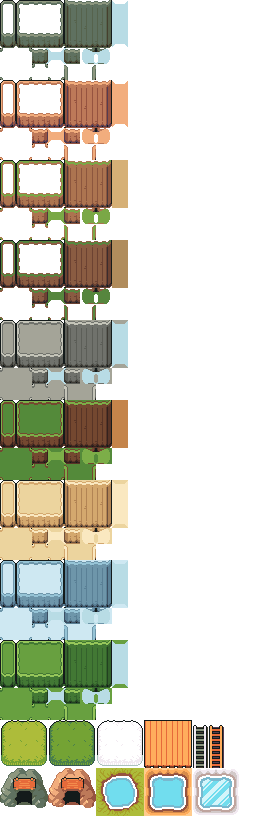
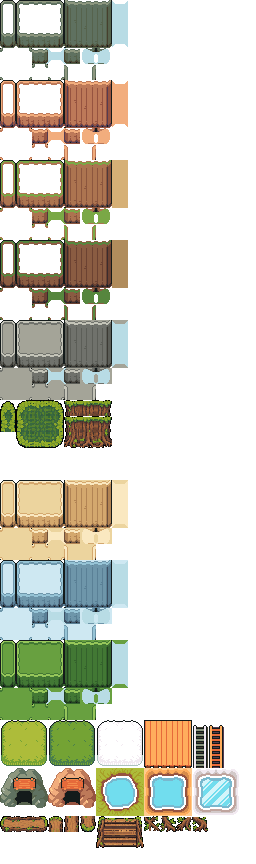
v21.5 : Arbre-Monde redessiné (feuillage, écorce, escaliers taillés, trous et branches à traverser, îlot, racines, lianes, lanternes)
Claude-Session: https://claude.ai/code/session_01HmK4HGKwe1XnWGQ1fbvQpK

diff --git a/index.html b/index.html
@@ -277,7 +277,7 @@ function cnv(w,h){const o=document.createElement('canvas');o.width=w;o.height=h;
 let seed=1;const srnd=()=>(seed=(seed*16807)%2147483647)/2147483647;
 
 /* ===== Images : Ninja Adventure (CC0) + kit d'interface ===== */
-const AT={"ch_NinjaGreen":[0,0,64,112],"ch_Knight":[65,0,64,112],"ch_KnightGold":[130,0,64,112],"ch_NinjaBlue":[195,0,64,112],"ch_NinjaRed":[260,0,64,112],"ch_NinjaMageBlack":[325,0,64,112],"ch_Princess":[390,0,64,112],"ch_Hunter":[455,0,64,112],"ch_Monk":[520,0,64,112],"ch_MaskRacoon":[585,0,64,112],"ch_Samurai":[650,0,64,112],"ch_Noble":[715,0,64,112],"ch_OldMan":[780,0,64,112],"ch_Boy":[845,0,64,112],"ch_ManGreen":[910,0,64,112],"ch_Monk2":[975,0,64,112],"ch_Inspector":[1040,0,64,112],"ch_Eskimo":[1105,0,64,112],"c_stairs":[390,885,66,98],"c_stairs_m":[457,885,66,98],"bo_TenguRed_Hit":[67,113,656,82],"bo_TenguRed_Idle":[724,113,492,82],"bo_TenguRed_Walk":[0,212,820,82],"bo_TenguRed_Attack":[0,295,1230,82],"h_temple":[0,378,64,80],"int_wall":[65,378,80,80],"c_pillar":[0,1247,36,81],"bo_Squid_Idle":[181,378,304,79],"bo_Squid_Walk":[486,378,304,79],"h_big":[791,378,64,78],"c_statue":[647,1247,45,77],"c_fountain":[693,1247,98,76],"c_arch":[792,1247,84,68],"mo_SpiderRed":[1080,378,64,64],"mo_Spirit":[1145,378,64,64],"mo_BlueBat":[0,459,64,64],"mo_Eye":[65,459,64,64],"mo_Slime":[130,459,64,64],"mo_Skull":[195,459,64,64],"mo_Cyclope":[260,459,64,64],"h_dome":[325,459,48,64],"c_wall":[1072,1247,128,64],"c_wallwin":[1201,1247,32,64],"fx_circ":[536,459,378,55],"c_well":[0,1329,59,53],"bo_DemonCyclop_Hit":[973,459,150,50],"bo_DemonCyclop_Idle":[0,524,250,50],"bo_DemonCyclop_Walk":[251,524,300,50],"bo_GiantSpirit_Hit":[552,524,150,50],"bo_GiantSpirit_Idle":[703,524,250,50],"bigtree_pink":[954,524,48,48],"bigtree_green":[1003,524,48,48],"bigtree_white":[1052,524,48,48],"bigtree_orange":[1101,524,48,48],"rocks_grey":[1150,524,64,48],"rocks_brown":[0,575,64,48],"h_orange":[65,575,64,48],"h_beige":[130,575,64,48],"h_orange2":[195,575,64,48],"h_red":[260,575,64,48],"h_teal":[325,575,48,48],"h_green":[374,575,64,48],"h_kiln":[439,575,48,48],"h_wood":[488,575,48,48],"h_wood2":[537,575,64,48],"arch":[602,575,64,48],"f_orange9":[667,575,48,48],"f_lgreen9":[716,575,48,48],"f_dgreen9":[765,575,48,48],"f_pink9":[814,575,48,48],"f_white9":[863,575,48,48],"road9":[912,575,48,48],"sand9":[961,575,48,48],"cave9":[1010,575,48,48],"snow9":[1059,575,48,48],"cliff_g":[1108,575,48,48],"cliff_o":[1157,575,48,48],"fx_spike":[0,624,540,48],"c_crate":[863,1329,36,50],"palm":[576,624,32,48],"bo_Samurai_Idle":[609,624,576,48],"bo_Samurai_Walk":[0,673,576,48],"stairs_g":[577,673,64,46],"stairs_w":[642,673,64,46],"f_rug":[707,673,47,46],"f_bed_y":[755,673,32,46],"f_bed_r":[788,673,32,46],"f_bed_b":[821,673,32,46],"f_bed_g":[854,673,32,46],"c_bench":[900,1329,60,45],"cave":[946,673,48,40],"fx_expl":[0,722,360,40],"bo_Frog_Idle":[361,722,200,40],"bo_Frog_Jump":[562,722,240,40],"fc_NinjaGreen":[803,722,38,38],"fc_Knight":[842,722,38,38],"fc_KnightGold":[881,722,38,38],"fc_NinjaBlue":[920,722,38,38],"fc_NinjaRed":[959,722,38,38],"fc_NinjaMageBlack":[998,722,38,38],"fc_Princess":[1037,722,38,38],"fc_Hunter":[1076,722,38,38],"fc_Monk":[1115,722,38,38],"fc_MaskRacoon":[1154,722,38,38],"fc_Samurai":[1193,722,38,38],"fc_Noble":[0,763,38,38],"fc_OldMan":[39,763,38,38],"fc_OldWoman":[78,763,38,38],"fc_Boy":[117,763,38,38],"fc_Child":[156,763,38,38],"fc_Monk2":[195,763,38,38],"fc_Inspector":[234,763,38,38],"fc_Eskimo":[273,763,38,38],"bo_DemonCyclop_Faceset":[312,763,38,38],"bo_GiantSpirit_Faceset":[351,763,38,38],"bo_TenguRed_Faceset":[390,763,38,38],"c_pot":[961,1329,32,40],"fc_horse":[460,763,38,38],"fc_horseb":[499,763,38,38],"fc_lion":[538,763,38,38],"fc_boar":[577,763,38,38],"bo_Frog_Faceset":[616,763,38,38],"bo_Samurai_Faceset":[655,763,38,38],"bo_Squid_Faceset":[694,763,38,38],"fx_spark":[733,763,270,35],"fx_arc":[1004,763,228,34],"ch_OldWoman":[0,802,64,32],"ch_Child":[65,802,64,32],"tree_round":[130,802,32,32],"tree_pine":[163,802,32,32],"tree_dead":[196,802,32,32],"tree_trunk":[229,802,32,32],"tree_green2":[262,802,32,32],"tree_green3":[295,802,32,32],"rock_grey":[328,802,32,32],"rock_brown":[361,802,32,32],"stump":[394,802,32,32],"torii":[427,802,48,32],"hut":[476,802,48,32],"banner0":[525,802,16,32],"banner1":[542,802,16,32],"banner2":[559,802,16,32],"banner3":[576,802,16,32],"banner4":[593,802,16,32],"banner5":[610,802,16,32],"banner6":[627,802,16,32],"pots":[644,802,64,32],"f_orange":[709,802,32,32],"f_lgreen":[742,802,32,32],"f_dgreen":[775,802,32,32],"f_pink":[808,802,32,32],"f_white":[841,802,32,32],"fx_ice":[874,802,320,32],"fx_circle":[0,835,192,32],"fx_smoke":[193,835,192,32],"tower_w":[386,835,16,32],"tower_g":[403,835,16,32],"tower_b":[420,835,16,32],"f_books":[437,835,32,32],"f_shelf":[470,835,64,32],"tree_snow":[535,835,32,32],"pine_snow":[568,835,32,32],"int_floor":[601,835,32,32],"int_floor2":[634,835,32,32],"f_bench":[667,835,48,31],"f_lamp":[716,835,14,30],"f_clock":[731,835,14,30],"fx_thunder":[746,835,160,28],"f_wardrobe":[907,835,14,27],"f_drawer":[922,835,32,26],"f_cabinet":[955,835,32,26],"barrels":[988,835,48,24],"pr_big":[1037,835,96,24],"f_plant":[1134,835,15,24],"m_lion":[1150,835,32,23],"ic_Lance":[1183,835,6,23],"f_sofa":[1190,835,27,20],"ic_MagicWand":[1218,835,5,18],"ic_Sword":[1224,835,6,17],"bush1":[0,868,16,16],"bush2":[17,868,16,16],"bush3":[34,868,16,16],"flower_y":[51,868,16,16],"flower_o":[68,868,16,16],"flower_r":[85,868,16,16],"grass_tuft":[102,868,16,16],"rock_grey_s":[119,868,16,16],"grass":[136,868,16,16],"grass2":[153,868,16,16],"grassd":[170,868,16,16],"block":[187,868,16,16],"lockdoor":[204,868,16,16],"pr_energy":[221,868,64,16],"pr_fire":[286,868,64,16],"pr_shuri":[351,868,32,16],"i_chest":[384,868,32,16],"f_chest":[417,868,16,16],"f_jar":[434,868,16,16],"m_horse":[451,868,32,16],"m_horse_s":[484,868,46,16],"m_horseb":[531,868,32,16],"m_horseb_s":[564,868,46,16],"m_lion_s":[611,868,60,16],"m_boar":[672,868,34,16],"ic_Hammer":[707,868,9,16],"ic_BigSword":[717,868,7,16],"ic_GemGreen":[725,868,16,16],"ic_GemPurple":[742,868,16,16],"ic_Bag":[759,868,16,16],"ic_Rapier":[776,868,10,15],"ic_GemRed":[787,868,15,15],"ic_BarIron":[803,868,16,15],"ic_BarGold":[820,868,16,15],"ic_BarMithril":[837,868,16,15],"i_bigchest":[854,868,32,14],"ic_Katana":[887,868,6,14],"ic_Club":[894,868,8,14],"ic_GemYellow":[903,868,14,14],"f_table":[918,868,45,13],"ic_Axe":[964,868,11,13],"ic_Sai":[976,868,7,13],"w_sword":[984,868,6,11],"i_life":[991,868,9,11],"ic_Cup":[1001,868,9,11],"w_wand":[1011,868,5,10],"w_katana":[1017,868,6,10],"w_hammer":[1024,868,9,9],"p_leaf":[1034,868,72,7],"i_coin":[1107,868,7,7],"ic_Bow":[1115,868,15,7],"pr_arrow":[1131,868,13,5],"pr_kunai":[1145,868,14,5],"ch_KnightRuby":[0,885,64,112],"ch_KnightAzur":[65,885,64,112],"ch_NinjaGreenPourpre":[130,885,64,112],"ch_NinjaGreenCendre":[195,885,64,112],"ch_NinjaMageBlackIvoire":[260,885,64,112],"ch_PrincessJade":[325,885,64,112],"bo_TenguRed_Walk_v":[0,998,820,82],"bo_TenguRed_Idle_v":[0,1081,492,82],"bo_TenguRed_Attack_v":[0,1164,1230,82],"bo_Squid_Idle_ice":[37,1247,304,79],"bo_Squid_Walk_ice":[342,1247,304,79],"mo_Slime_e":[877,1247,64,64],"mo_Skull_e":[942,1247,64,64],"mo_Cyclope_e":[1007,1247,64,64],"bo_DemonCyclop_Walk_v":[60,1329,300,50],"bo_DemonCyclop_Idle_v":[361,1329,250,50],"bo_GiantSpirit_Idle_v":[612,1329,250,50],"fc_Squid_ice":[994,1329,38,38],"fc_KnightRuby":[1033,1329,38,38],"fc_KnightAzur":[1072,1329,38,38],"fc_NinjaGreenPourpre":[1111,1329,38,38],"fc_NinjaGreenCendre":[1150,1329,38,38],"fc_NinjaMageBlackIvoire":[1189,1329,38,38],"fc_PrincessJade":[0,1383,38,38],"pr_poison":[39,1383,64,16],"pr_para":[104,1383,64,16],"c_stairs_h":[0,1423,33,49],"c_stairs_m_h":[34,1423,33,49],"c_pillar_h":[68,1423,18,41],"c_statue_h":[87,1423,23,39],"c_fountain_h":[111,1423,49,38],"c_arch_h":[161,1423,42,34],"c_wall_h":[204,1423,64,32],"c_wallwin_h":[269,1423,16,32],"c_well_h":[286,1423,30,27],"c_crate_h":[317,1423,18,25],"c_bench_h":[336,1423,30,23],"c_pot_h":[367,1423,16,20],"ch_Villager":[0,1474,64,112],"fc_Villager":[65,1474,38,38],"ch_Villager2":[104,1474,64,112],"fc_Villager2":[169,1474,38,38],"ch_Villager3":[208,1474,64,112],"fc_Villager3":[273,1474,38,38],"ch_Villager4":[312,1474,64,112],"fc_Villager4":[377,1474,38,38],"ch_Villager5":[416,1474,64,112],"fc_Villager5":[481,1474,38,38],"ch_Woman":[520,1474,64,112],"fc_Woman":[585,1474,38,38],"ch_OldMan2":[624,1474,64,112],"fc_OldMan2":[689,1474,38,38],"ch_OldMan3":[728,1474,64,112],"fc_OldMan3":[793,1474,38,38],"ch_Master":[832,1474,64,112],"fc_Master":[897,1474,38,38],"ch_Shaman":[936,1474,64,112],"fc_Shaman":[1001,1474,38,38],"ch_Sultan":[1040,1474,64,112],"fc_Sultan":[1105,1474,38,38],"ch_Sultan2":[1144,1474,64,112],"fc_Sultan2":[0,1587,38,38],"ch_Caveman":[39,1587,64,112],"fc_Caveman":[104,1587,38,38],"ch_Cavegirl":[143,1587,64,112],"fc_Cavegirl":[208,1587,38,38],"ch_FighterRed":[247,1587,64,112],"fc_FighterRed":[312,1587,38,38],"ch_FighterWhite":[351,1587,64,112],"fc_FighterWhite":[416,1587,38,38],"ch_Vampire":[455,1587,64,112],"fc_Vampire":[520,1587,38,38],"ch_NinjaYellow":[559,1587,64,112],"fc_NinjaYellow":[624,1587,38,38],"ch_NinjaDark":[663,1587,64,112],"fc_NinjaDark":[728,1587,38,38],"ch_SamuraiBlue":[767,1587,64,112],"fc_SamuraiBlue":[832,1587,38,38],"ch_SamuraiRed":[871,1587,64,112],"fc_SamuraiRed":[936,1587,38,38],"ch_SorcererBlack":[975,1587,64,112],"fc_SorcererBlack":[1040,1587,38,38],"ch_SorcererOrange":[1079,1587,64,112],"fc_SorcererOrange":[1144,1587,38,38],"ch_GladiatorBlue":[0,1700,64,112],"fc_GladiatorBlue":[65,1700,38,38],"ch_RedGladiator":[104,1700,64,112],"fc_RedGladiator":[169,1700,38,38],"ch_NinjaMasked":[208,1700,64,112],"fc_NinjaMasked":[273,1700,38,38],"ch_Monkey":[312,1700,64,112],"fc_Monkey":[377,1700,38,38],"ch_LionBoy":[416,1700,64,112],"fc_LionBoy":[481,1700,38,38],"ch_NinjaEskimo":[520,1700,64,112],"fc_NinjaEskimo":[585,1700,38,38],"ch_NinjaWater":[624,1700,64,112],"fc_NinjaWater":[689,1700,38,38],"ch_NinjaFire":[728,1700,64,112],"fc_NinjaFire":[793,1700,38,38],"ch_Skeleton":[832,1700,64,112],"fc_Skeleton":[897,1700,38,38],"ch_Caveman2":[936,1700,64,112],"fc_Caveman2":[1001,1700,38,38],"ch_Cavegirl2":[1040,1700,64,112],"fc_Cavegirl2":[1105,1700,37,38],"mo_Snake":[1143,1700,64,64],"mo_Mushroom":[0,1813,64,64],"mo_Racoon":[65,1813,64,64],"mo_Mole":[130,1813,64,64],"mo_Lizard":[195,1813,64,64],"mo_Beast":[260,1813,64,64],"mo_Owl":[325,1813,64,64],"mo_Larva":[390,1813,64,64],"mo_Bamboo":[455,1813,64,64],"mo_Flam":[520,1813,64,64],"mo_Reptile":[585,1813,64,64],"mo_Mollusc":[650,1813,64,64],"mo_SpiderYellow":[715,1813,64,64],"mo_Slime2":[780,1813,64,64],"mo_Slime3":[845,1813,64,64],"mo_Cyclope2":[910,1813,64,64],"mo_Spirit2":[975,1813,64,64],"mo_Eye2":[1040,1813,64,64],"mo_Snake2":[1105,1813,64,64],"mo_Lizard2":[1170,1813,64,64],"mo_Mushroom2":[0,1878,64,64],"mo_Beast2":[65,1878,64,64],"mo_Owl2":[130,1878,64,64],"ic_Branch":[195,1878,16,16],"ic_Rock":[212,1878,16,16],"ic_Herb":[229,1878,16,16],"ic_Scroll":[246,1878,14,14],"ic_Letter":[261,1878,12,9],"ic_Book":[274,1878,9,9],"ic_Pickaxe":[284,1878,16,16],"ic_AxeTool":[301,1878,16,16],"ic_Sickle":[318,1878,16,16],"ic_GoldKey":[335,1878,12,8],"ic_Meat":[348,1878,15,15],"ic_Feather":[364,1878,16,16],"ic_Bow2":[381,1878,15,7],"ic_Whip":[397,1878,9,13],"ic_Ninjaku":[407,1878,7,12],"ic_Stick":[415,1878,3,16],"ic_Sword2":[419,1878,6,15],"ic_Lance2":[426,1878,7,21],"ic_Bone":[434,1878,7,12],"n_gem_o":[442,1878,16,16],"n_gem_b":[459,1878,16,16],"n_gem_p":[476,1878,16,16],"n_herb1":[493,1878,16,16],"n_herb2":[510,1878,16,16],"n_herb3":[527,1878,16,16],"n_stump":[544,1878,16,16],"n_sign":[561,1878,16,16],"n_ore":[578,1878,16,16],"n_ore2":[595,1878,16,16],"c_tent":[612,1878,48,48],"c_fire":[661,1878,32,32],"c_logbench":[694,1878,48,16],"n_crystal":[743,1878,32,32],"n_crystal2":[776,1878,32,32],"ix_sceau":[0,1943,24,24],"ix_eclat":[24,1943,24,24],"ix_couronne":[48,1943,24,24],"ix_aube":[72,1943,24,24],"ix_croc_givre":[96,1943,24,24],"ix_coeur_braise":[120,1943,24,24],"ix_souffle_tengu":[144,1943,24,24],"ix_cle_golem":[168,1943,24,24],"ix_cle_liche":[192,1943,24,24],"ix_cle_wyrm":[216,1943,24,24],"ix_cle_frog":[240,1943,24,24],"ix_cle_samurai":[264,1943,24,24],"ix_cle_squid":[288,1943,24,24],"d_grand_arbre":[0,1967,129,128],"d_statue_roi":[131,2047,25,48],"d_trone_cendre":[158,2063,23,32],"d_tour_ruine":[183,2031,45,64],"d_autel_eclats":[230,2063,49,32]};
+const AT={"ch_NinjaGreen":[0,0,64,112],"ch_Knight":[65,0,64,112],"ch_KnightGold":[130,0,64,112],"ch_NinjaBlue":[195,0,64,112],"ch_NinjaRed":[260,0,64,112],"ch_NinjaMageBlack":[325,0,64,112],"ch_Princess":[390,0,64,112],"ch_Hunter":[455,0,64,112],"ch_Monk":[520,0,64,112],"ch_MaskRacoon":[585,0,64,112],"ch_Samurai":[650,0,64,112],"ch_Noble":[715,0,64,112],"ch_OldMan":[780,0,64,112],"ch_Boy":[845,0,64,112],"ch_ManGreen":[910,0,64,112],"ch_Monk2":[975,0,64,112],"ch_Inspector":[1040,0,64,112],"ch_Eskimo":[1105,0,64,112],"c_stairs":[390,885,66,98],"c_stairs_m":[457,885,66,98],"bo_TenguRed_Hit":[67,113,656,82],"bo_TenguRed_Idle":[724,113,492,82],"bo_TenguRed_Walk":[0,212,820,82],"bo_TenguRed_Attack":[0,295,1230,82],"h_temple":[0,378,64,80],"int_wall":[65,378,80,80],"c_pillar":[0,1247,36,81],"bo_Squid_Idle":[181,378,304,79],"bo_Squid_Walk":[486,378,304,79],"h_big":[791,378,64,78],"c_statue":[647,1247,45,77],"c_fountain":[693,1247,98,76],"c_arch":[792,1247,84,68],"mo_SpiderRed":[1080,378,64,64],"mo_Spirit":[1145,378,64,64],"mo_BlueBat":[0,459,64,64],"mo_Eye":[65,459,64,64],"mo_Slime":[130,459,64,64],"mo_Skull":[195,459,64,64],"mo_Cyclope":[260,459,64,64],"h_dome":[325,459,48,64],"c_wall":[1072,1247,128,64],"c_wallwin":[1201,1247,32,64],"fx_circ":[536,459,378,55],"c_well":[0,1329,59,53],"bo_DemonCyclop_Hit":[973,459,150,50],"bo_DemonCyclop_Idle":[0,524,250,50],"bo_DemonCyclop_Walk":[251,524,300,50],"bo_GiantSpirit_Hit":[552,524,150,50],"bo_GiantSpirit_Idle":[703,524,250,50],"bigtree_pink":[954,524,48,48],"bigtree_green":[1003,524,48,48],"bigtree_white":[1052,524,48,48],"bigtree_orange":[1101,524,48,48],"rocks_grey":[1150,524,64,48],"rocks_brown":[0,575,64,48],"h_orange":[65,575,64,48],"h_beige":[130,575,64,48],"h_orange2":[195,575,64,48],"h_red":[260,575,64,48],"h_teal":[325,575,48,48],"h_green":[374,575,64,48],"h_kiln":[439,575,48,48],"h_wood":[488,575,48,48],"h_wood2":[537,575,64,48],"arch":[602,575,64,48],"f_orange9":[667,575,48,48],"f_lgreen9":[716,575,48,48],"f_dgreen9":[765,575,48,48],"f_pink9":[814,575,48,48],"f_white9":[863,575,48,48],"road9":[912,575,48,48],"sand9":[961,575,48,48],"cave9":[1010,575,48,48],"snow9":[1059,575,48,48],"cliff_g":[1108,575,48,48],"cliff_o":[1157,575,48,48],"fx_spike":[0,624,540,48],"c_crate":[863,1329,36,50],"palm":[576,624,32,48],"bo_Samurai_Idle":[609,624,576,48],"bo_Samurai_Walk":[0,673,576,48],"stairs_g":[577,673,64,46],"stairs_w":[642,673,64,46],"f_rug":[707,673,47,46],"f_bed_y":[755,673,32,46],"f_bed_r":[788,673,32,46],"f_bed_b":[821,673,32,46],"f_bed_g":[854,673,32,46],"c_bench":[900,1329,60,45],"cave":[946,673,48,40],"fx_expl":[0,722,360,40],"bo_Frog_Idle":[361,722,200,40],"bo_Frog_Jump":[562,722,240,40],"fc_NinjaGreen":[803,722,38,38],"fc_Knight":[842,722,38,38],"fc_KnightGold":[881,722,38,38],"fc_NinjaBlue":[920,722,38,38],"fc_NinjaRed":[959,722,38,38],"fc_NinjaMageBlack":[998,722,38,38],"fc_Princess":[1037,722,38,38],"fc_Hunter":[1076,722,38,38],"fc_Monk":[1115,722,38,38],"fc_MaskRacoon":[1154,722,38,38],"fc_Samurai":[1193,722,38,38],"fc_Noble":[0,763,38,38],"fc_OldMan":[39,763,38,38],"fc_OldWoman":[78,763,38,38],"fc_Boy":[117,763,38,38],"fc_Child":[156,763,38,38],"fc_Monk2":[195,763,38,38],"fc_Inspector":[234,763,38,38],"fc_Eskimo":[273,763,38,38],"bo_DemonCyclop_Faceset":[312,763,38,38],"bo_GiantSpirit_Faceset":[351,763,38,38],"bo_TenguRed_Faceset":[390,763,38,38],"c_pot":[961,1329,32,40],"fc_horse":[460,763,38,38],"fc_horseb":[499,763,38,38],"fc_lion":[538,763,38,38],"fc_boar":[577,763,38,38],"bo_Frog_Faceset":[616,763,38,38],"bo_Samurai_Faceset":[655,763,38,38],"bo_Squid_Faceset":[694,763,38,38],"fx_spark":[733,763,270,35],"fx_arc":[1004,763,228,34],"ch_OldWoman":[0,802,64,32],"ch_Child":[65,802,64,32],"tree_round":[130,802,32,32],"tree_pine":[163,802,32,32],"tree_dead":[196,802,32,32],"tree_trunk":[229,802,32,32],"tree_green2":[262,802,32,32],"tree_green3":[295,802,32,32],"rock_grey":[328,802,32,32],"rock_brown":[361,802,32,32],"stump":[394,802,32,32],"torii":[427,802,48,32],"hut":[476,802,48,32],"banner0":[525,802,16,32],"banner1":[542,802,16,32],"banner2":[559,802,16,32],"banner3":[576,802,16,32],"banner4":[593,802,16,32],"banner5":[610,802,16,32],"banner6":[627,802,16,32],"pots":[644,802,64,32],"f_orange":[709,802,32,32],"f_lgreen":[742,802,32,32],"f_dgreen":[775,802,32,32],"f_pink":[808,802,32,32],"f_white":[841,802,32,32],"fx_ice":[874,802,320,32],"fx_circle":[0,835,192,32],"fx_smoke":[193,835,192,32],"tower_w":[386,835,16,32],"tower_g":[403,835,16,32],"tower_b":[420,835,16,32],"f_books":[437,835,32,32],"f_shelf":[470,835,64,32],"tree_snow":[535,835,32,32],"pine_snow":[568,835,32,32],"int_floor":[601,835,32,32],"int_floor2":[634,835,32,32],"f_bench":[667,835,48,31],"f_lamp":[716,835,14,30],"f_clock":[731,835,14,30],"fx_thunder":[746,835,160,28],"f_wardrobe":[907,835,14,27],"f_drawer":[922,835,32,26],"f_cabinet":[955,835,32,26],"barrels":[988,835,48,24],"pr_big":[1037,835,96,24],"f_plant":[1134,835,15,24],"m_lion":[1150,835,32,23],"ic_Lance":[1183,835,6,23],"f_sofa":[1190,835,27,20],"ic_MagicWand":[1218,835,5,18],"ic_Sword":[1224,835,6,17],"bush1":[0,868,16,16],"bush2":[17,868,16,16],"bush3":[34,868,16,16],"flower_y":[51,868,16,16],"flower_o":[68,868,16,16],"flower_r":[85,868,16,16],"grass_tuft":[102,868,16,16],"rock_grey_s":[119,868,16,16],"grass":[136,868,16,16],"grass2":[153,868,16,16],"grassd":[170,868,16,16],"block":[187,868,16,16],"lockdoor":[204,868,16,16],"pr_energy":[221,868,64,16],"pr_fire":[286,868,64,16],"pr_shuri":[351,868,32,16],"i_chest":[384,868,32,16],"f_chest":[417,868,16,16],"f_jar":[434,868,16,16],"m_horse":[451,868,32,16],"m_horse_s":[484,868,46,16],"m_horseb":[531,868,32,16],"m_horseb_s":[564,868,46,16],"m_lion_s":[611,868,60,16],"m_boar":[672,868,34,16],"ic_Hammer":[707,868,9,16],"ic_BigSword":[717,868,7,16],"ic_GemGreen":[725,868,16,16],"ic_GemPurple":[742,868,16,16],"ic_Bag":[759,868,16,16],"ic_Rapier":[776,868,10,15],"ic_GemRed":[787,868,15,15],"ic_BarIron":[803,868,16,15],"ic_BarGold":[820,868,16,15],"ic_BarMithril":[837,868,16,15],"i_bigchest":[854,868,32,14],"ic_Katana":[887,868,6,14],"ic_Club":[894,868,8,14],"ic_GemYellow":[903,868,14,14],"f_table":[918,868,45,13],"ic_Axe":[964,868,11,13],"ic_Sai":[976,868,7,13],"w_sword":[984,868,6,11],"i_life":[991,868,9,11],"ic_Cup":[1001,868,9,11],"w_wand":[1011,868,5,10],"w_katana":[1017,868,6,10],"w_hammer":[1024,868,9,9],"p_leaf":[1034,868,72,7],"i_coin":[1107,868,7,7],"ic_Bow":[1115,868,15,7],"pr_arrow":[1131,868,13,5],"pr_kunai":[1145,868,14,5],"ch_KnightRuby":[0,885,64,112],"ch_KnightAzur":[65,885,64,112],"ch_NinjaGreenPourpre":[130,885,64,112],"ch_NinjaGreenCendre":[195,885,64,112],"ch_NinjaMageBlackIvoire":[260,885,64,112],"ch_PrincessJade":[325,885,64,112],"bo_TenguRed_Walk_v":[0,998,820,82],"bo_TenguRed_Idle_v":[0,1081,492,82],"bo_TenguRed_Attack_v":[0,1164,1230,82],"bo_Squid_Idle_ice":[37,1247,304,79],"bo_Squid_Walk_ice":[342,1247,304,79],"mo_Slime_e":[877,1247,64,64],"mo_Skull_e":[942,1247,64,64],"mo_Cyclope_e":[1007,1247,64,64],"bo_DemonCyclop_Walk_v":[60,1329,300,50],"bo_DemonCyclop_Idle_v":[361,1329,250,50],"bo_GiantSpirit_Idle_v":[612,1329,250,50],"fc_Squid_ice":[994,1329,38,38],"fc_KnightRuby":[1033,1329,38,38],"fc_KnightAzur":[1072,1329,38,38],"fc_NinjaGreenPourpre":[1111,1329,38,38],"fc_NinjaGreenCendre":[1150,1329,38,38],"fc_NinjaMageBlackIvoire":[1189,1329,38,38],"fc_PrincessJade":[0,1383,38,38],"pr_poison":[39,1383,64,16],"pr_para":[104,1383,64,16],"c_stairs_h":[0,1423,33,49],"c_stairs_m_h":[34,1423,33,49],"c_pillar_h":[68,1423,18,41],"c_statue_h":[87,1423,23,39],"c_fountain_h":[111,1423,49,38],"c_arch_h":[161,1423,42,34],"c_wall_h":[204,1423,64,32],"c_wallwin_h":[269,1423,16,32],"c_well_h":[286,1423,30,27],"c_crate_h":[317,1423,18,25],"c_bench_h":[336,1423,30,23],"c_pot_h":[367,1423,16,20],"ch_Villager":[0,1474,64,112],"fc_Villager":[65,1474,38,38],"ch_Villager2":[104,1474,64,112],"fc_Villager2":[169,1474,38,38],"ch_Villager3":[208,1474,64,112],"fc_Villager3":[273,1474,38,38],"ch_Villager4":[312,1474,64,112],"fc_Villager4":[377,1474,38,38],"ch_Villager5":[416,1474,64,112],"fc_Villager5":[481,1474,38,38],"ch_Woman":[520,1474,64,112],"fc_Woman":[585,1474,38,38],"ch_OldMan2":[624,1474,64,112],"fc_OldMan2":[689,1474,38,38],"ch_OldMan3":[728,1474,64,112],"fc_OldMan3":[793,1474,38,38],"ch_Master":[832,1474,64,112],"fc_Master":[897,1474,38,38],"ch_Shaman":[936,1474,64,112],"fc_Shaman":[1001,1474,38,38],"ch_Sultan":[1040,1474,64,112],"fc_Sultan":[1105,1474,38,38],"ch_Sultan2":[1144,1474,64,112],"fc_Sultan2":[0,1587,38,38],"ch_Caveman":[39,1587,64,112],"fc_Caveman":[104,1587,38,38],"ch_Cavegirl":[143,1587,64,112],"fc_Cavegirl":[208,1587,38,38],"ch_FighterRed":[247,1587,64,112],"fc_FighterRed":[312,1587,38,38],"ch_FighterWhite":[351,1587,64,112],"fc_FighterWhite":[416,1587,38,38],"ch_Vampire":[455,1587,64,112],"fc_Vampire":[520,1587,38,38],"ch_NinjaYellow":[559,1587,64,112],"fc_NinjaYellow":[624,1587,38,38],"ch_NinjaDark":[663,1587,64,112],"fc_NinjaDark":[728,1587,38,38],"ch_SamuraiBlue":[767,1587,64,112],"fc_SamuraiBlue":[832,1587,38,38],"ch_SamuraiRed":[871,1587,64,112],"fc_SamuraiRed":[936,1587,38,38],"ch_SorcererBlack":[975,1587,64,112],"fc_SorcererBlack":[1040,1587,38,38],"ch_SorcererOrange":[1079,1587,64,112],"fc_SorcererOrange":[1144,1587,38,38],"ch_GladiatorBlue":[0,1700,64,112],"fc_GladiatorBlue":[65,1700,38,38],"ch_RedGladiator":[104,1700,64,112],"fc_RedGladiator":[169,1700,38,38],"ch_NinjaMasked":[208,1700,64,112],"fc_NinjaMasked":[273,1700,38,38],"ch_Monkey":[312,1700,64,112],"fc_Monkey":[377,1700,38,38],"ch_LionBoy":[416,1700,64,112],"fc_LionBoy":[481,1700,38,38],"ch_NinjaEskimo":[520,1700,64,112],"fc_NinjaEskimo":[585,1700,38,38],"ch_NinjaWater":[624,1700,64,112],"fc_NinjaWater":[689,1700,38,38],"ch_NinjaFire":[728,1700,64,112],"fc_NinjaFire":[793,1700,38,38],"ch_Skeleton":[832,1700,64,112],"fc_Skeleton":[897,1700,38,38],"ch_Caveman2":[936,1700,64,112],"fc_Caveman2":[1001,1700,38,38],"ch_Cavegirl2":[1040,1700,64,112],"fc_Cavegirl2":[1105,1700,37,38],"mo_Snake":[1143,1700,64,64],"mo_Mushroom":[0,1813,64,64],"mo_Racoon":[65,1813,64,64],"mo_Mole":[130,1813,64,64],"mo_Lizard":[195,1813,64,64],"mo_Beast":[260,1813,64,64],"mo_Owl":[325,1813,64,64],"mo_Larva":[390,1813,64,64],"mo_Bamboo":[455,1813,64,64],"mo_Flam":[520,1813,64,64],"mo_Reptile":[585,1813,64,64],"mo_Mollusc":[650,1813,64,64],"mo_SpiderYellow":[715,1813,64,64],"mo_Slime2":[780,1813,64,64],"mo_Slime3":[845,1813,64,64],"mo_Cyclope2":[910,1813,64,64],"mo_Spirit2":[975,1813,64,64],"mo_Eye2":[1040,1813,64,64],"mo_Snake2":[1105,1813,64,64],"mo_Lizard2":[1170,1813,64,64],"mo_Mushroom2":[0,1878,64,64],"mo_Beast2":[65,1878,64,64],"mo_Owl2":[130,1878,64,64],"ic_Branch":[195,1878,16,16],"ic_Rock":[212,1878,16,16],"ic_Herb":[229,1878,16,16],"ic_Scroll":[246,1878,14,14],"ic_Letter":[261,1878,12,9],"ic_Book":[274,1878,9,9],"ic_Pickaxe":[284,1878,16,16],"ic_AxeTool":[301,1878,16,16],"ic_Sickle":[318,1878,16,16],"ic_GoldKey":[335,1878,12,8],"ic_Meat":[348,1878,15,15],"ic_Feather":[364,1878,16,16],"ic_Bow2":[381,1878,15,7],"ic_Whip":[397,1878,9,13],"ic_Ninjaku":[407,1878,7,12],"ic_Stick":[415,1878,3,16],"ic_Sword2":[419,1878,6,15],"ic_Lance2":[426,1878,7,21],"ic_Bone":[434,1878,7,12],"n_gem_o":[442,1878,16,16],"n_gem_b":[459,1878,16,16],"n_gem_p":[476,1878,16,16],"n_herb1":[493,1878,16,16],"n_herb2":[510,1878,16,16],"n_herb3":[527,1878,16,16],"n_stump":[544,1878,16,16],"n_sign":[561,1878,16,16],"n_ore":[578,1878,16,16],"n_ore2":[595,1878,16,16],"c_tent":[612,1878,48,48],"c_fire":[661,1878,32,32],"c_logbench":[694,1878,48,16],"n_crystal":[743,1878,32,32],"n_crystal2":[776,1878,32,32],"ix_sceau":[0,1943,24,24],"ix_eclat":[24,1943,24,24],"ix_couronne":[48,1943,24,24],"ix_aube":[72,1943,24,24],"ix_croc_givre":[96,1943,24,24],"ix_coeur_braise":[120,1943,24,24],"ix_souffle_tengu":[144,1943,24,24],"ix_cle_golem":[168,1943,24,24],"ix_cle_liche":[192,1943,24,24],"ix_cle_wyrm":[216,1943,24,24],"ix_cle_frog":[240,1943,24,24],"ix_cle_samurai":[264,1943,24,24],"ix_cle_squid":[288,1943,24,24],"d_grand_arbre":[0,1967,129,128],"d_statue_roi":[131,2047,25,48],"d_trone_cendre":[158,2063,23,32],"d_tour_ruine":[183,2031,45,64],"d_autel_eclats":[230,2063,49,32],"d_knot":[0,2095,32,32],"d_vines":[34,2095,16,32],"d_mush":[52,2113,16,14],"d_nest":[70,2115,16,12],"d_lantern":[88,2111,9,16]};
[1 lines of base64/hex data omitted]
 const ready=i=>i.complete&&i.naturalWidth>0;
 const tmpC=cnv(128,128),tmpX=tmpC.getContext('2d');
@@ -2918,9 +2918,11 @@ function tOpen(T,x,y,w,h,k=TK.FLOOR){tRect(T,x,y,w,h,i=>{T.k[i]=k})}
 function tCol(T){const {tw,th,h,k}=T,cw=tw*2,chh=th*2,C=new Uint8Array(cw*chh);T.cw=cw;T.chh=chh;const B=(cx,cy)=>{if(cx>=0&&cy>=0&&cx<cw&&cy<chh)C[cy*cw+cx]=1};
   const pass=q=>q===TK.RAMP||q===TK.BRIDGE;
   for(let y=0;y<th;y++)for(let x=0;x<tw;x++){const i=y*tw+x,v=h[i],q=k[i],X=2*x,Y=2*y;
+    if(q===TK.VOID){const kb=(a,b)=>tIn(T,a,b)&&k[tI(T,a,b)]===TK.BRIDGE;if(kb(x,y+1)){B(X,Y);B(X+1,Y);continue}if(kb(x,y-1)){B(X,Y+1);B(X+1,Y+1);continue}if(kb(x+1,y)){B(X,Y);B(X,Y+1);continue}if(kb(x-1,y)){B(X+1,Y);B(X+1,Y+1);continue}}
     if(q===TK.WATER||q===TK.VOID||q===TK.HEDGE||q===TK.WALL){B(X,Y);B(X+1,Y);B(X,Y+1);B(X+1,Y+1);continue}
     if(q===TK.BRIDGE)continue;
     if(q!==TK.RAMP){let cl=false;for(let j=1;j<=CH;j++){if(y-j<0)break;if(h[i-j*tw]>v&&!pass(k[i-j*tw])){cl=true;break}}if(cl){B(X,Y);B(X+1,Y);B(X,Y+1);B(X+1,Y+1);continue}}
+    if((x>0&&k[i-1]===TK.BRIDGE)||(x<tw-1&&k[i+1]===TK.BRIDGE)||(y>0&&k[i-tw]===TK.BRIDGE)||(y<th-1&&k[i+tw]===TK.BRIDGE))continue;
     if(y>0&&h[i-tw]<v&&!pass(k[i-tw])){B(X,Y)&&0;B(X,Y);B(X+1,Y)}
     if(x>0&&h[i-1]<v&&!pass(k[i-1])){B(X,Y);B(X,Y+1)}
     if(x<tw-1&&h[i+1]<v&&!pass(k[i+1])){B(X+1,Y);B(X+1,Y+1)}}
@@ -2949,6 +2951,9 @@ function terChunk(T,cx,cy){const o=cnv(CW,CW),c=o.getContext('2d');c.imageSmooth
   const K=(x,y)=>tIn(T,x,y)?k[tI(T,x,y)]:-1,Hh=(x,y)=>tIn(T,x,y)?h[tI(T,x,y)]:-99,ge=(x,y,L)=>!tIn(T,x,y)||h[tI(T,x,y)]>=L;
   /* 1. sol, eau, glace, chemins, planchers, vide */
   for(let y=b0;y<=b1;y++)for(let x=a0;x<=a1;x++){const q=k[tI(T,x,y)],X=x*16,Y=y*16;
+    if((q===TK.VOID||q===TK.BRIDGE)&&T.s[tI(T,x,y)]===RSTY.bark){c.fillStyle='#0d2112';c.fillRect(X,Y,16,16);for(let z=0;z<3;z++)if(hsh(x,y,30+z)<.5){c.fillStyle=z?'#16351c':'#1f4a26';c.fillRect(X+(hsh(x,y,40+z)*13|0),Y+(hsh(x,y,50+z)*13|0),3,2)}
+      if(q===TK.BRIDGE){const kb=(a,b)=>K(a,b)===TK.BRIDGE,land=(a,b)=>{const z=K(a,b);return z!==TK.VOID&&z!==-1};const hz=kb(x-1,y)||kb(x+1,y)||(!kb(x,y-1)&&!kb(x,y+1));
+        const v=hz?(!kb(x-1,y)&&kb(x+1,y)?0:kb(x-1,y)&&!kb(x+1,y)?2:1):(!kb(x,y-1)&&kb(x,y+1)?0:kb(x,y-1)&&!kb(x,y+1)?2:1);c.drawImage(IMG.relief,(hz?v:3+v)*16,51*16,16,16,X,Y,16,16)}continue}
     if(q===TK.VOID||q===TK.BRIDGE){c.fillStyle='#16110d';c.fillRect(X,Y,16,16);if(hsh(x,y,3)<.2){c.fillStyle='#231a14';c.fillRect(X+(hsh(x,y,4)*12|0),Y+(hsh(x,y,5)*12|0),3,2)}
       if(q===TK.BRIDGE){const sm=t=>K(x,y+t)===TK.BRIDGE,sw_=t=>K(x+t,y)===TK.BRIDGE;nine(c,9,0,sm(-1),sm(1),sw_(-1),sw_(1),X,Y)}continue}
     if(q===TK.PLANK){const pk=(a,b)=>{const z=K(a,b);return z===TK.PLANK||z===TK.RAMP&&Hh(a,b)>=Hh(x,y)};nine(c,9,0,pk(x,y-1),pk(x,y+1),pk(x-1,y),pk(x+1,y),X,Y);continue}
@@ -2957,6 +2962,7 @@ function terChunk(T,cx,cy){const o=cnv(CW,CW),c=o.getContext('2d');c.imageSmooth
     if(q===TK.FLOOR){const fq=(a,b)=>{const z=K(a,b);return z===TK.FLOOR||z===TK.WALL||z===-1};floorTile(c,T,x,y,X,Y,[!fq(x,y-1),!fq(x,y+1),!fq(x-1,y),!fq(x+1,y)]);continue}
     if(q===TK.PATH){const nm=T.road,r=AT[nm];if(!r)continue;const pq=(a,b)=>{const z=K(a,b);return z===q||z===TK.RAMP||z===TK.FLOOR||z===-1};
       const n_=pq(x,y-1),s_=pq(x,y+1),w_=pq(x-1,y),e_=pq(x+1,y);if(r[2]>=48)sub(c,nm,(!w_?0:!e_?32:16),(!n_?0:!s_?32:16),16,16,X,Y);else sub(c,nm,0,0,16,16,X,Y);continue}
+    if(T.root&&T.root.has(tI(T,x,y))){c.drawImage(IMG.relief,(9+(hsh(x,y,60)*4|0))*16,51*16,16,16,X,Y,16,16);continue}
     if(q===TK.G&&T.deco.length&&hsh(x,y,7)<T.decoN){const d=T.deco[hsh(x,y,8)*T.deco.length|0];sub(c,d,0,0,16,16,X+(hsh(x,y,9)*4|0)-2,Y+(hsh(x,y,10)*4|0)-2)}}
   if(!ready(IMG.relief))return o;
   /* 2. étages : falaises puis dessus, du plus bas au plus haut */
@@ -2983,7 +2989,7 @@ function terChunk(T,cx,cy){const o=cnv(CW,CW),c=o.getContext('2d');c.imageSmooth
   return o}
 /* escalier naturel taillé dans la falaise */
 const STEPC={0:['#e8eff4','#a8bccb','#6f8798'],1:['#f2cf98','#c8925e','#8e5e3e'],2:['#c4b08e','#8c7458','#5e4a36'],3:['#a99878','#74624a','#4c3e2e'],4:['#b8b8ac','#86867c','#5a5a52'],5:['#c88850','#8a5530','#5a3820'],6:['#ecd6a4','#c8a46c','#90704a'],7:['#d8eef6','#98c0d0','#5e8496'],8:['#a8c070','#6a8a44','#3e5a2a']};
-function drawSteps(c,r){const X=r.x*16,Y=r.y*16,W=r.w*16,Hh=CH*16,[A,B,E]=STEPC[r.sty]||STEPC[2],n=5,sh=Hh/n;
+function drawSteps(c,r){if(r.sty===RSTY.bark&&ready(IMG.relief)){for(let q=0;q<CH;q++)for(let dx=0;dx<r.w;dx++){const col=r.w<3?(dx===0?0:2):(dx===0?0:dx===r.w-1?2:1);c.drawImage(IMG.relief,(6+col)*16,(51+(q?1:0))*16,16,16,(r.x+dx)*16,(r.y+q)*16,16,16)}return}const X=r.x*16,Y=r.y*16,W=r.w*16,Hh=CH*16,[A,B,E]=STEPC[r.sty]||STEPC[2],n=5,sh=Hh/n;
   c.fillStyle=E;c.fillRect(X,Y,W,Hh);
   for(let i=0;i<n;i++){const y0=Math.round(Y+i*sh),y1=Math.round(Y+(i+1)*sh),ins=1+(i%2);
     c.fillStyle=A;c.fillRect(X+ins,y0,W-2*ins,y1-y0-2);c.fillStyle=B;c.fillRect(X+ins,y1-2,W-2*ins,2);
@@ -3052,26 +3058,30 @@ foret(){const T=Ter('foret',TW_,TH_,{sty:'forest',ground:['grassd','grassd'],roa
   const rv=[[118,0],[128,40],[150,80],[170,112],[188,150],[196,199]];
   for(let s=0;s<rv.length-1;s++){const [ax,ay]=rv[s],[bx,by]=rv[s+1],n=Math.ceil(Math.hypot(bx-ax,by-ay));for(let j=0;j<=n;j++){const x=ax+(bx-ax)*j/n,y=ay+(by-ay)*j/n;
     tRect(T,Math.round(x-4),Math.round(y),9,1,i=>{T.k[i]=TK.VOID;T.h[i]=-3})}}
-  const tx=228,ty=62;tRaise(T,tx,ty,30,20,1,{sty:'bark',rough:.12});tRaise(T,tx-2,ty-4,20,13,2,{sty:'bark',rough:.12});tRaise(T,tx+2,ty-8,12,8,3,{sty:'bark',rough:.1});tRaise(T,tx,ty-11,7,5,4,{sty:'bark',rough:.08});
+  const tx=228,ty=62;tRaise(T,tx,ty,42,24,1,{sty:'bark',rough:.1});tRaise(T,tx-2,ty-4,20,13,2,{sty:'bark',rough:.12});tRaise(T,tx+2,ty-8,12,8,3,{sty:'bark',rough:.1});tRaise(T,tx,ty-11,7,5,4,{sty:'bark',rough:.08});
   tKind(T,40,100,12,7,TK.WATER,{rough:.2});
   tWallRect(T,62,170,26,20,{ws:'stone'});tOpen(T,72,188,6,2);tOpen(T,62,176,2,5);tOpen(T,78,170,5,2);
   tFlat(T,100,100,9,0);tFlat(T,4,104,4,0);tFlat(T,150,195,4,0);tFlat(T,tx,ty-12,3,4);
   tClean(T);
   for(const [bx,by] of [[123,22],[160,96],[192,170]])tRect(T,bx-7,by,16,3,(i)=>{if(T.k[i]===TK.VOID){T.k[i]=TK.BRIDGE}});
   for(const [x,y] of [[60,52],[70,40],[250,172],[175,30],[40,156]])tRamp(T,x,y,3);
-  const lad=[tRamp(T,tx,ty+16,2,'ladder'),tRamp(T,tx-8,ty+8,2,'ladder'),tRamp(T,tx+6,ty-1,2,'ladder'),tRamp(T,tx-1,ty-8,2,'ladder')];
-  /* passerelles de planches entre les échelles, sur chaque étage de l'arbre */
-  const walk=(L,pts)=>{for(let s_=0;s_<pts.length-1;s_++){const [ax,ay]=pts[s_],[bx,by]=pts[s_+1],n=Math.ceil(Math.hypot(bx-ax,by-ay)*2);for(let j=0;j<=n;j++){const x=Math.round(ax+(bx-ax)*j/n),y=Math.round(ay+(by-ay)*j/n);for(let dy=-1;dy<=1;dy++)for(let dx=-1;dx<=1;dx++){if(!tIn(T,x+dx,y+dy))continue;const i=tI(T,x+dx,y+dy);if(T.h[i]===L&&T.k[i]===TK.G)T.k[i]=TK.PLANK}}}};
-  for(let L=1;L<=3;L++){const a=lad[L-1],b=lad[L];if(a&&b)walk(L,[[a.x+1,a.y-2],[(a.x+b.x)/2+(L%2?-6:6),(a.y+b.y+CH)/2],[b.x+1,b.y+CH+1]])}
-  if(lad[3])walk(4,[[lad[3].x+1,lad[3].y-2],[tx,ty-12]]);
-  tPath(T,[[0,104],[20,113],[60,113],[100,100]]);tPath(T,[[100,100],[120,60],[118,30],[114,23],[132,23],[160,40],[210,82],[228,86]]);tPath(T,[[100,100],[140,110],[150,97],[170,97],[200,120],[230,150],[250,190]]);
+  /* trous dans le feuillage (la forêt tout en bas) et branches pour les traverser */
+  const hole=(cx,cy,rx,ry,br)=>{tShape(T,cx,cy,rx,ry,i=>{if(T.k[i]!==TK.RAMP){T.k[i]=TK.VOID;T.h[i]=-3;T.s[i]=RSTY.bark}},.12,cx);for(const [x0,y0,x1,y1] of br)tRect(T,Math.min(x0,x1),Math.min(y0,y1),Math.abs(x1-x0)+1,Math.abs(y1-y0)+1,i=>{if(T.k[i]===TK.VOID)T.k[i]=TK.BRIDGE})};
+  const isle=(cx,cy,r,L)=>tRect(T,cx-r,cy-r,2*r+1,2*r+1,i=>{T.h[i]=L;T.k[i]=TK.G;T.s[i]=RSTY.bark});
+  const lad=[tRamp(T,tx,ty+20,3),tRamp(T,tx-10,ty+2,3),tRamp(T,tx+8,ty-2,3),tRamp(T,tx-1,ty-8,3)];
+  hole(197,62,4,7,[[188,62,206,62]]);
+  hole(256,62,6,9,[]);isle(256,61,2,1);tRect(T,246,62,20,1,i=>{if(T.k[i]===TK.VOID)T.k[i]=TK.BRIDGE});
+  hole(211,80,6,3,[[211,74,211,86]]);
+  hole(211,54,3,6,[[206,54,217,54]]);
+  T.root=new Set();
+  tPath(T,[[0,104],[20,113],[60,113],[100,100]]);tPath(T,[[100,100],[120,60],[118,30],[114,23],[132,23],[160,40],[200,92],[228,92]]);tPath(T,[[100,100],[140,110],[150,97],[170,97],[200,120],[230,150],[250,190]]);
   tPath(T,[[100,100],[120,140],[160,165],[183,171],[202,171],[170,180],[150,199]]);tPath(T,[[100,100],[90,140],[75,170],[75,188]]);
   T.labels=[[tx*16,(ty+24)*16,'Arbre-Monde'],[123*16,30*16,'Ravin des Murmures'],[75*16,192*16,'Ruines envahies'],[40*16,112*16,'Étang des fées']];
   T.place={camp:[100,100],exits:[{to:'plaine',x:6,y:104*16},{to:'desert',x:2400,y:3194}],dun:{frog:[tx*16,(ty-12)*16]},
     forests:[[40,62,24,0],[200,24,20,0],[275,100,22,0],[30,185,16,0],[240,130,18,0],[150,40,14,0],[90,130,18,0],[285,30,14,0],[30,22,16,1],[150,150,14,0],[120,185,14,0]],rocks:[[150,130,10],[275,192,10]],
-    chests:[[tx,ty-14],[tx-10,ty-4],[75,180],[40,110],[66,32],[250,160],[150,180],[290,20]],
+    chests:[[tx,ty-14],[256,61],[tx-10,ty-4],[75,180],[40,110],[66,32],[250,160],[150,180],[290,20]],
     packs:[[tx,ty+6],[tx-8,ty-2],[tx+6,ty-8],[75,180],[60,40],[250,165],[150,150],[175,24]],
-    deco:[['d_tour_ruine',90,168],['d_grand_arbre',60,100],['d_grand_arbre',270,60],['d_grand_arbre',170,150],['d_grand_arbre',30,180],['c_statue_h',75,178],['c_pillar_h',68,182],['c_pillar_h',82,182],['bigtree_pink',32,96],['bigtree_pink',50,93]],canopy:[tx,ty,30,20]};
+    deco:[['d_tour_ruine',90,168],['d_grand_arbre',60,100],['d_grand_arbre',270,60],['d_grand_arbre',170,150],['d_grand_arbre',30,180],['c_statue_h',75,178],['c_pillar_h',68,182],['c_pillar_h',82,182],['bigtree_pink',32,96],['bigtree_pink',50,93]],canopy:[tx,ty,42,24],treeDeco:[tx,ty]};
   return T},
 desert(){const T=Ter('desert',TW_,TH_,{sty:'sand',ground:['f_orange','f_orange'],road:'sand9',lake:9,seed:303,deco:['rock_grey_s'],decoN:.025,floor:'sand9',pave:['#8a6640','#d8b47a','#c9a06a','#e6c890','#b0875a'],
     mini:{g:'#e8a860',cliff:'#9a5a40',ramp:'#f2ad7d',path:'#f0c890',water:'#5ab0c8'}});
@@ -3110,6 +3120,7 @@ pics(){const T=Ter('pics',TW_,TH_,{sty:'snow',ground:['f_white','f_white'],road:
     deco:[['torii',150,164],['d_tour_ruine',55,30],['c_tent',36,156],['c_tent',46,164]]};
   return T}};
 function terOf(id){if(TERC[id])return TERC[id];const T=TDEF[id]();tCliff(T);tCol(T);
+  if(T.root){for(let y=1;y<T.th;y++)for(let x=0;x<T.tw;x++){const i=tI(T,x,y);if(T.k[i]!==TK.G||T.cl[i]||!T.cl[i-T.tw])continue;for(let j=2;j<=CH+1&&y-j>=0;j++){const u=i-j*T.tw;if(T.h[u]>T.h[i]){if(T.s[u]===RSTY.bark&&T.h[i]===0)T.root.add(i);break}}}}
   let mn=99,mx=-99;for(let i=0;i<T.n;i++){mn=Math.min(mn,T.h[i]);mx=Math.max(mx,T.h[i])}T.minH=mn;T.maxH=mx;
   return TERC[id]=T}
 /* ---------- nouvelles dimensions et lieux ---------- */
@@ -3133,6 +3144,13 @@ function buildBig(id){const R=REG[id],LY=RLAY[id],T=terOf(id),P=T.place,W=LY.w,H
   for(const k in NPCS){const N=NPCS[k];if(N.zone!==id)continue;const n={id:k,x:cx+(N.dx||0),y:cy+(N.dy||0)};w.npcs.push(n);w.trig.push({kind:'npc',id:k,x:n.x,y:n.y+8,r:20})}
   /* arbre-monde : feuillage autour du tronc */
   if(P.canopy){const [tx,ty,rx,ry]=P.canopy;for(let a=0;a<6.28;a+=.22){const x=(tx+Math.cos(a)*(rx+3))*16,y=(ty+Math.sin(a)*(ry+3))*16;if(cellK(x,y)===TK.G&&!blockedAt(w,x,y,8))add('bigtree_green',x,y,[-6,-5,12,5])}}
+  if(P.treeDeco){const [tx,ty]=P.treeDeco,kn=T.ramps.find(r=>r.sty===RSTY.bark&&r.L===1);
+    if(kn)add('d_knot',(kn.x-3)*16,(kn.y+CH)*16,[-14,-10,28,10]);
+    for(let y=ty-30;y<ty+30;y++)for(let x=tx-40;x<tx+40;x++){if(!tIn(T,x,y))continue;const i=tI(T,x,y);
+      if(T.cl[i]&&T.k[i]!==TK.RAMP&&!T.cl[i+T.tw]&&hsh(x,y,71)<.16){for(let j=1;j<=CH+1;j++){const u=i-j*T.tw;if(u>=0&&T.h[u]>T.h[i]){if(T.s[u]===RSTY.bark)w.props.push({type:'spr',n:'d_vines',x:x*16+8,y:(y+1)*16-1});break}}}
+      if(T.s[i]===RSTY.bark&&T.k[i]===TK.G&&T.h[i]>0&&!T.cl[i]&&hsh(x,y,72)<.012&&!blockedAt(w,x*16+8,y*16+8,8))add(hsh(x,y,73)<.5?'d_lantern':'d_mush',x*16+8,y*16+12,[-4,-3,8,3]);
+      if(T.root&&T.root.has(i)&&hsh(x,y,74)<.08&&!blockedAt(w,x*16+8,y*16+8,8))add('d_mush',x*16+8,y*16+12,[-4,-3,8,3])}
+    add('d_nest',(tx+4)*16,(ty-13)*16,null)}
   if(P.palms){const [px_,py_,r]=P.palms;for(let i=0;i<36;i++){const a=Rn()*6.28,d=r*(.6+Rn()*.5),x=(px_+Math.cos(a)*d)*16,y=(py_+Math.sin(a)*d*.7)*16;if(free(x,y,8))add('palm',x,y)}}
   /* donjons */
   for(const k of dun){const d=DUNGEONS[k];w.props.push({type:'portal',id:k,x:d.x,y:d.y});w.solids.push({x:d.x-31,y:d.y-10,w:13,h:10},{x:d.x+18,y:d.y-10,w:13,h:10});w.trig.push({kind:'dungeon',id:k,x:d.x,y:d.y-4,r:26,auto:false})}
@@ -3238,7 +3256,7 @@ for(const [id,k] of [['bAtk','atk'],['bRoll','roll'],['bS1','s1'],['bS2','s2'],[
 $('#reset').onclick=function(){if(this.dataset.armed){S=migrate12(JSON.parse(JSON.stringify(DEF)));save();this.dataset.armed='';this.textContent='Recommencer la partie';$('#resetMsg').textContent='Partie remise à zéro.';renderRes();closeMenu();initGame();charSelect()}
   else{this.dataset.armed='1';this.textContent='Confirmer la remise à zéro';$('#resetMsg').textContent='Ressources, bâtiments et héros seront perdus.'}};
 
-const VERSION='21.3';
+const VERSION='21.5';
 function showErr(e){if(window._ccErr)return;window._ccErr=1;console.error(e);const d=document.createElement('div');d.style.cssText='position:fixed;left:8px;right:8px;top:40%;z-index:99;background:#3a120c;color:#fff;font:13px sans-serif;padding:10px;border:2px solid #d65a3c;user-select:text;-webkit-user-select:text';d.textContent='Erreur (v'+VERSION+') : '+(e&&e.message)+' — '+String(e&&e.stack||'').split('\n').slice(1,3).join(' | ');d.onclick=()=>{d.remove();window._ccErr=0};document.body.appendChild(d)}
 addEventListener('error',ev=>showErr(ev.error||{message:ev.message}));
 let last=performance.now();
